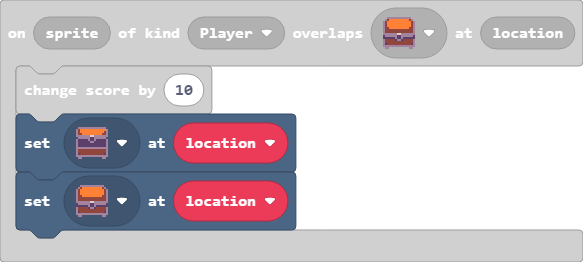
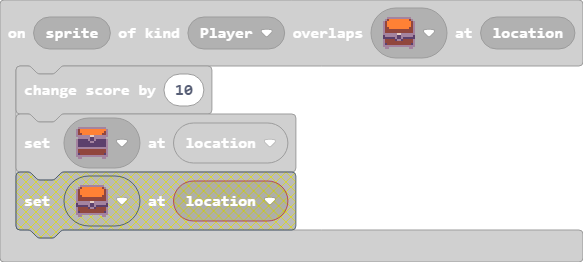
Update main.blocks, main.ts

Changed region(s): [[0.0, 0.4275, 0.5249, 0.916]]

diff --git a/main.ts b/main.ts
@@ -10,7 +10,6 @@ function fabriek () {
 scene.onOverlapTile(SpriteKind.Player, assets.tile`tile43`, function (sprite, location) {
     info.changeScoreBy(10)
     tiles.setTileAt(location, assets.tile`tile`)
-    tiles.setTileAt(location, assets.tile`tile43`)
 })
 scene.onOverlapTile(SpriteKind.Player, assets.tile`tile41`, function (sprite, location) {
     wereld()
